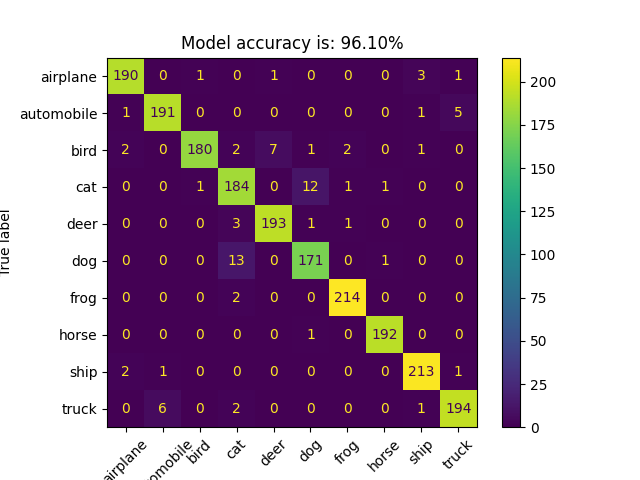
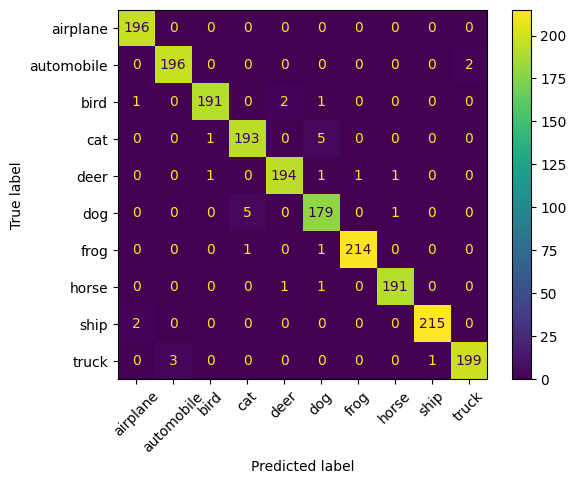
Add best model results

diff --git a/README.md b/README.md
@@ -78,7 +78,7 @@ Our model utilize very well GPU (circa 90%)
 
 ![Alt text](./img/wandb_gpu.png?raw=true "WandB plots")
 
-We trained later our model with these parameters with 10 epochs, getting the best validation score: XXX and test score: XXX
+We trained later our model with these parameters with 10 epochs, getting the best validation score: 98.2% and test score: 98.4%
 
 We present below the confusion matrix of the best model:
 
